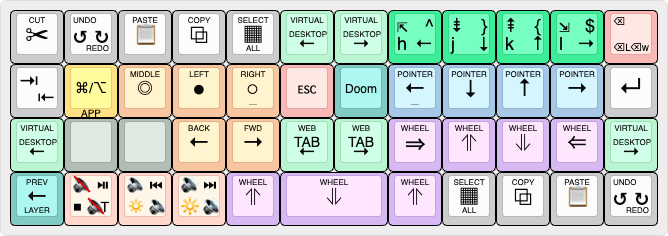
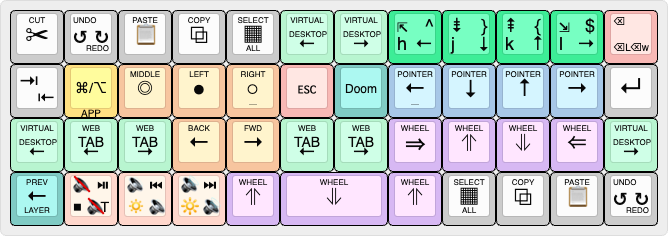
Refactored directory names: tap_dance -> tap_dances for consistency; updated docs…

Changed region(s): [[0.0898, 0.5042, 0.2695, 0.7415]]

diff --git a/CHANGELOG.md b/CHANGELOG.md
@@ -21,6 +21,10 @@
 
 ---
 
+## 2026-08/20-TH
+- Added more Markdown files for `src` project path and subdirectories.
+- **Mouse**: Filled in _ROW1_ blanks w/ tab previous/next.
+
 ## 2026-08/17-MO
 - Cleaned up documentation.
 - Fixed **DOOM** layer bug w/r/t **UPPER** layer.

diff --git a/assets/json/README.md b/assets/json/README.md
@@ -1,0 +1,5 @@
+# `./assets/json`
+
+This directory stores the JSON data for use with [keyboard-layout-editor.com](https://www.keyboard-layout-editor.com/).
+
+Drag and drop `.json` files directly into the “Raw data” tab on the site.
